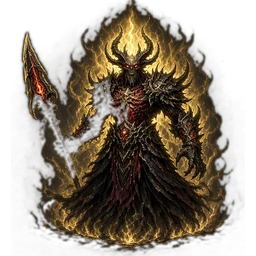
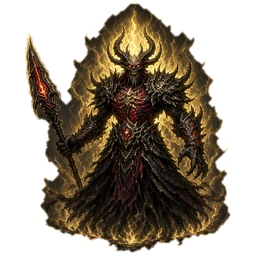
art2: fly/frog/beetle/zealot 立绘去暗底（径向背景估计 + color-to-alpha unmultiply 保留半透明光晕，本体核心掩膜保持不透明）

diff --git a/tools/art2/fix_elite2_halo.py b/tools/art2/fix_elite2_halo.py
@@ -1,0 +1,31 @@
+# 修复带光晕的 elite2 立绘暗底：估算背景色 → color-to-alpha（unmultiply）保留半透明光晕；角色本体用实心核心掩膜保护不透明
+import os,sys,numpy as np
+from PIL import Image,ImageFilter
+from scipy import ndimage
+SRC='/workspace/elite2_gen'; OUT=os.path.join(os.path.dirname(os.path.abspath(__file__)),'..','..','assets','elite2')
+NAMES=sys.argv[1:] or ['a3_champ_fly','a3_champ_frog','a2_champ_beetle','a3_uniq_zealot']
+for n in NAMES:
+    a=np.asarray(Image.open(f'{SRC}/{n}.jpg').convert('RGB')).astype(np.float32)
+    H0,W0=a.shape[:2]; yy,xx=np.mgrid[0:H0,0:W0]; r=np.hypot((xx-W0/2)/(W0/2),(yy-H0/2)/(H0/2))
+    # 背景是径向渐变：按半径分环取低分位数，用外环(r>0.55)拟合二次曲线外推到中心 → 空间变化的背景色 bg(r)
+    bins=np.linspace(0.55,1.4,18); rc=[];vals=[]
+    for b0,b1 in zip(bins[:-1],bins[1:]):
+        m=(r>=b0)&(r<b1)
+        if m.sum()>500: rc.append((b0+b1)/2); vals.append(np.percentile(a[m],40,axis=0))
+    rc=np.array(rc); vals=np.array(vals); bg=np.stack([np.polyval(np.polyfit(rc,vals[:,c],2),np.clip(r,0.3,1.5)) for c in range(3)],-1)
+    up=np.where(a>=bg,(a-bg)/np.maximum(255-bg,1),0*a); al=np.clip(up.max(2),0,1)
+    al=np.clip((al-0.04)/0.96,0,1)
+    D=np.abs(a-bg).max(2)
+    core=ndimage.binary_fill_holes(ndimage.binary_closing(ndimage.binary_opening(D>12,iterations=3),iterations=6))
+    lab,nl=ndimage.label(core)
+    if nl: sz=ndimage.sum(core,lab,range(1,nl+1)); core=np.isin(lab,1+np.where(sz>0.02*sz.max())[0])
+    core=ndimage.binary_erosion(core,iterations=5)
+    coref=np.asarray(Image.fromarray((core*255).astype(np.uint8)).filter(ImageFilter.GaussianBlur(2))).astype(np.float32)/255
+    A=np.maximum(al,coref)
+    rgb=np.clip(bg+(a-bg)/np.maximum(A[...,None],1e-3),0,255)   # unmultiply
+    im=Image.fromarray(np.dstack([rgb,A*255]).astype(np.uint8),'RGBA')
+    bb=im.getchannel('A').point(lambda v:255 if v>30 else 0).getbbox(); W,H=im.size
+    m=int(0.04*max(bb[2]-bb[0],bb[3]-bb[1])); c=im.crop((max(0,bb[0]-m),max(0,bb[1]-m),min(W,bb[2]+m),min(H,bb[3]+m)))
+    s=256/max(c.size); c=c.resize((max(1,round(c.width*s)),max(1,round(c.height*s))),Image.LANCZOS)
+    o=Image.new('RGBA',(256,256),(0,0,0,0)); o.alpha_composite(c,((256-c.width)//2,(256-c.height)//2))
+    o.save(f'{OUT}/{n}.webp','WEBP',quality=88); print(n,bb)
